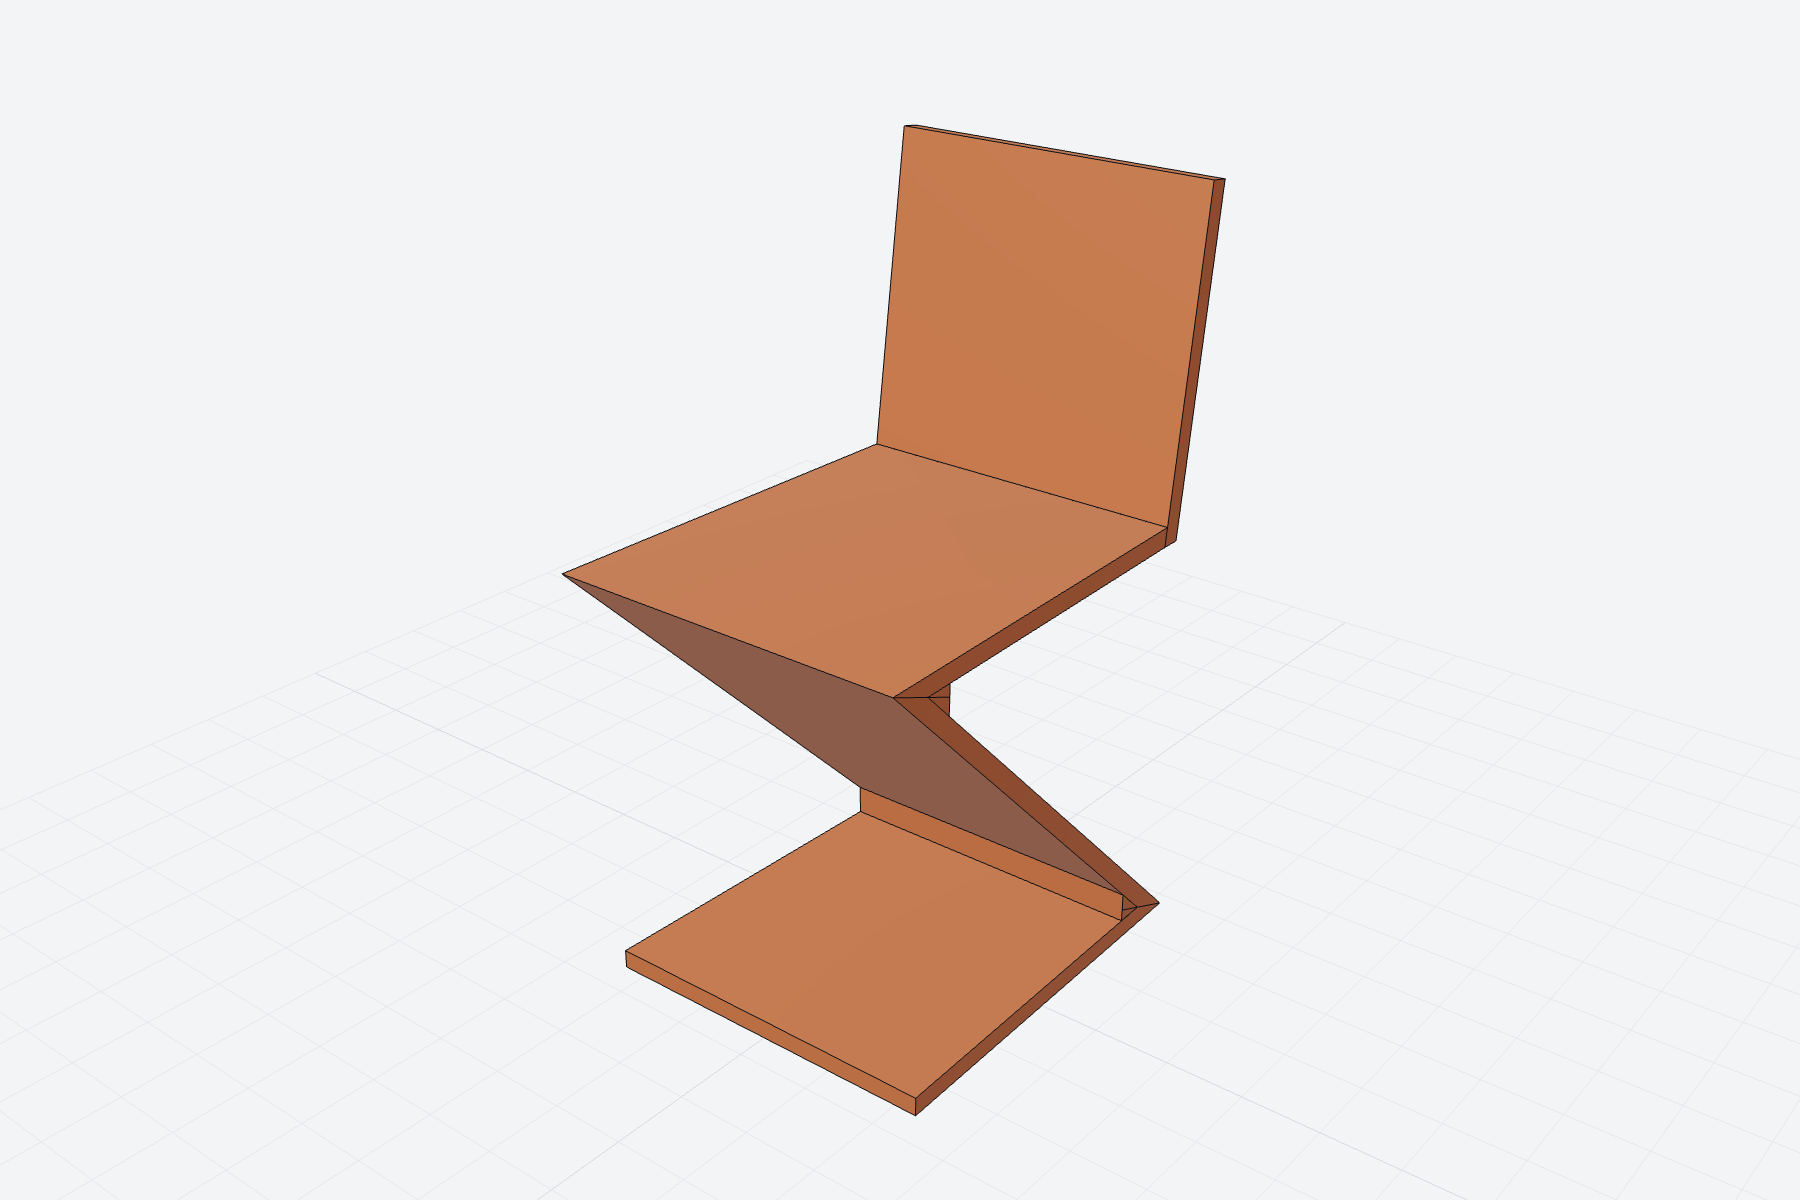
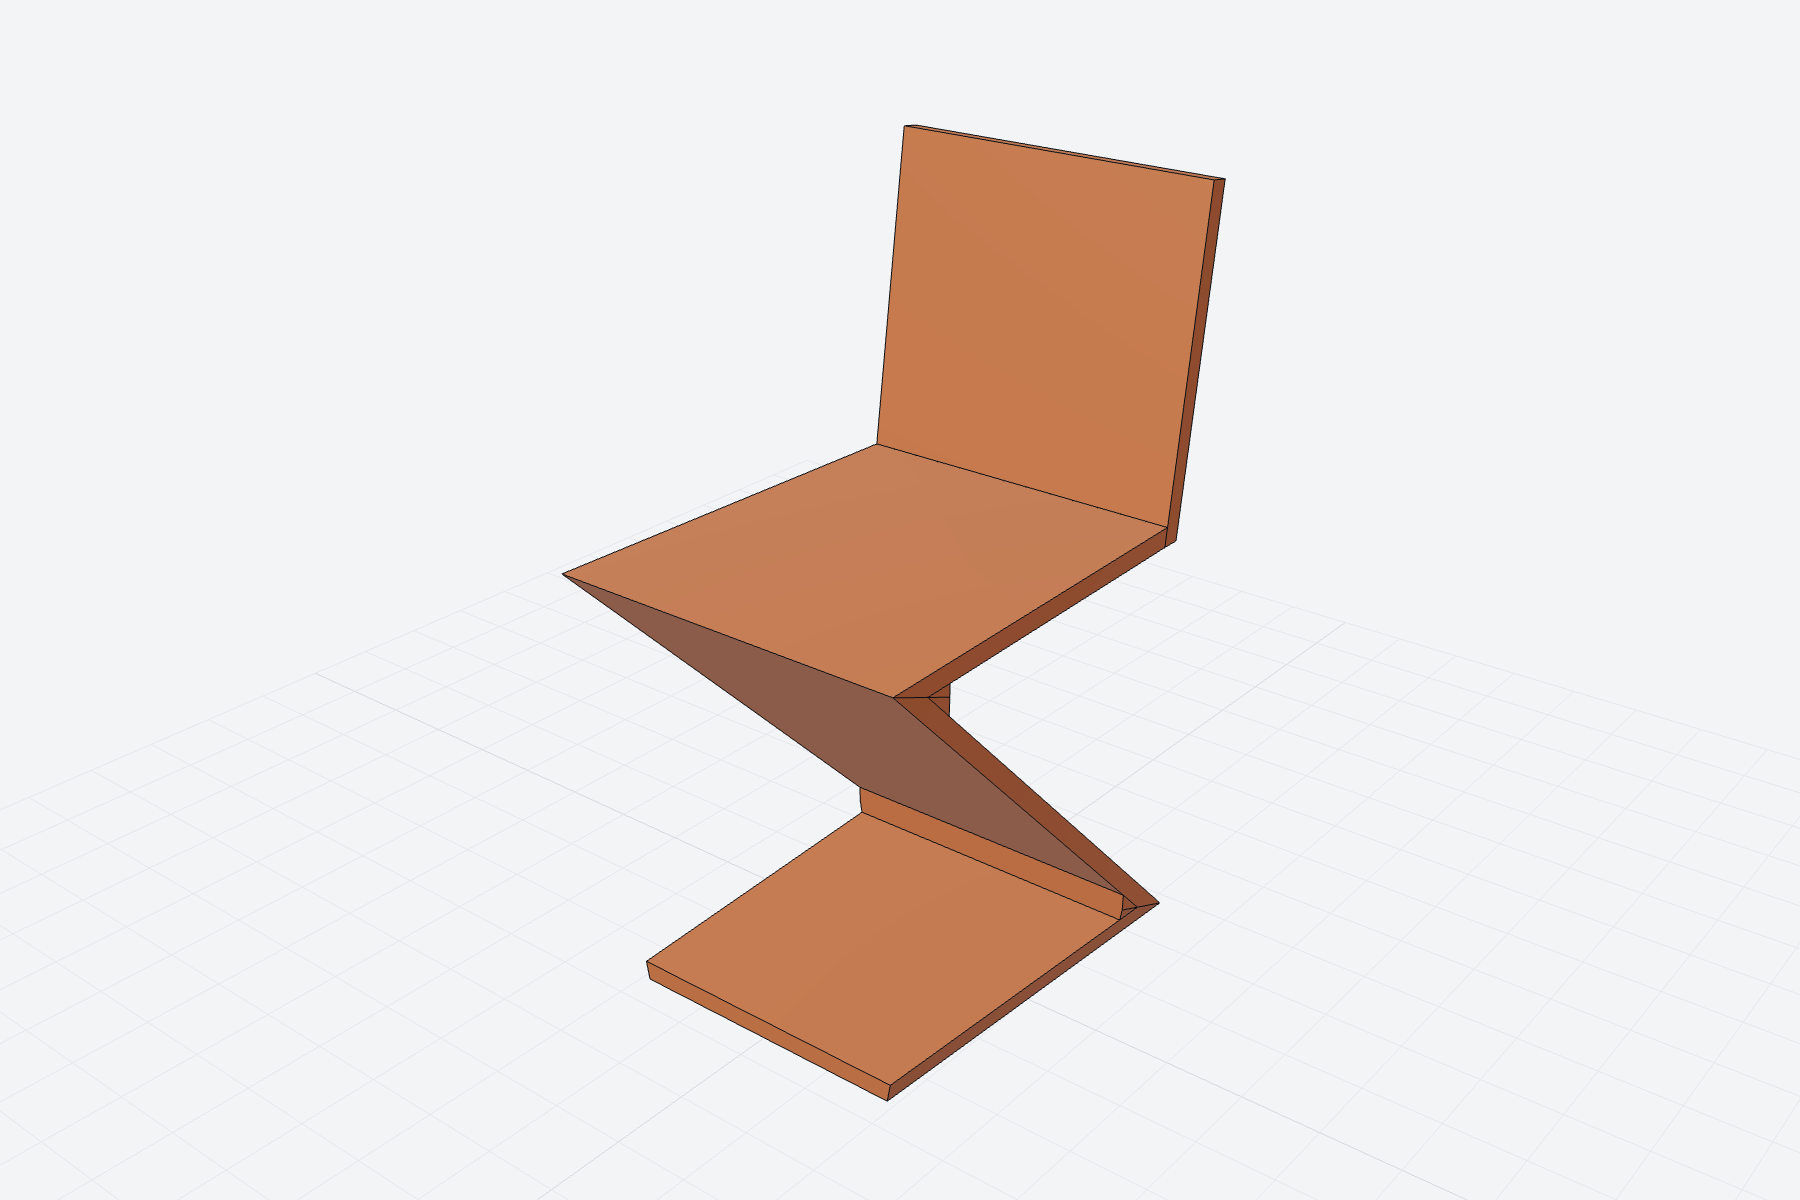
Examples: the zigzag chair's base narrows forward, its sides planed flush with the slant's
Square-edged boards with exact mitres would force the base to widen forward to 357 mm, against the drawing and the photographs. The chair is modelled as finished: the base cut square from 330 at the foot to 300 at the front leaves a 3.1 mm step a side at the bottom mitre's inner edge, planed flush, so its sides are planes through the mitre's shared lines, bevelled 3.49 mm a side (10.4 degrees). check() measures and asserts the bevel and the 300 on the top face's front edge; the hand volume of a board stays the area times the width at the centroid, exact for any width linear in y and z.

Changed region(s): [[0.4978, 0.7708, 0.6222, 0.925], [0.3422, 0.7092, 0.4356, 0.8325], [0.4356, 0.6783, 0.4667, 0.7092]]

diff --git a/examples/zigzag_chair.py b/examples/zigzag_chair.py
@@ -1,6 +1,7 @@
 """Zig-zag chair after Rietveld's 1934 Zig-Zag chair, in the proportions of the current production drawing: four
 cherry boards 19 mm thick, the seat, the slant and the base tapered and mitred at 45 degrees, each mitre with a
-glued cleat in its acute angle; the back dovetailed through the seat, a hand grip carved in its rear face."""
+glued cleat in its acute angle, the base's sides planed flush with the slant's after glue-up; the back dovetailed
+through the seat, a hand grip carved in its rear face."""
 
 import math
 
@@ -13,6 +14,7 @@ from smlibpy import *
 # y = -240, so that the 480 of depth is -240..240.
 T = 19.0  # every board's thickness
 W_NOSE, W_FOOT = 370.0, 330.0  # the width at the nose (the drawing's 37 cm) and at the slant's rear bottom corner
+W_BASE_FRONT = 300.0  # the base's top face at its front edge: the base narrows forward, as the drawing and photos show
 SEAT_TOP, HEIGHT, DEPTH = 430.0, 740.0, 480.0  # the seat's top; the back's rear top corner: its height, behind the nose
 Y_NOSE = -DEPTH / 2
 SLANT, BACK_LEAN = 45.0, 8.0  # the slant to the floor; the back's lean from the vertical
@@ -67,9 +69,14 @@ FOOT_CLEAT = [BASE_INNER, (BASE_INNER[0] - CLEAT, T), (BASE_INNER[0] - CLEAT, T 
 
 
 # The widths. Two boards that share a mitre and have planar sides square to their own faces meet flush only if they
-# narrow at the same rate along their faces, away from the mitre; so one rate for the seat, the slant and the base.
-# Measured along each board from the nose (the seat backward, the slant downward), both narrow; at the foot the
-# slant widens upward, away from the bottom mitre, so the base widens forward, away from it, at the same rate.
+# narrow at the same rate along their faces, away from the mitre; so one rate for the seat and the slant, measured
+# from the nose (the seat backward, the slant downward). At the foot the slant widens upward, away from the bottom
+# mitre, so a square-edged base would have to widen forward, to 357 at its front: against the drawing and the
+# photographs, where it narrows. The chair is modelled as finished instead: a shop cuts the base square to its
+# widths (330 at the foot, 300 at the front) and glues it up; that leaves a step of about 3 mm a side at the bottom
+# mitre's inner edge (SQUARE_STEP), and the base's sides are planed flush with the slant's. They end up planes that
+# contain the bottom mitre's shared lines, so the mitre stays exact, but they are no longer square to the base's
+# faces: the top face is wider than the underside by BEVEL a side.
 def along_slant(y: float, z: float) -> float:
     """Distance from the nose along the slant, downward."""
     return ((y - Y_NOSE) - (z - SEAT_TOP)) / S2
@@ -86,8 +93,22 @@ def slant_half(y: float, z: float) -> float:
     return W_NOSE / 2 - RATE * along_slant(y, z)
 
 
+# The base's side: x = W_FOOT / 2 + BASE_Y (y - FOOT_y) + BASE_Z z, through the foot (its mitre's outer corner),
+# through the mitre's inner corner at the slant's width there, and W_BASE_FRONT wide on the top face's front edge.
+_DY_INNER, _DY_FRONT = BASE_INNER[0] - FOOT[0], BASE_FRONT - FOOT[0]
+_AT_INNER, _AT_FRONT = slant_half(*BASE_INNER) - W_FOOT / 2, W_BASE_FRONT / 2 - W_FOOT / 2
+BASE_Y = (_AT_INNER - _AT_FRONT) / (_DY_INNER - _DY_FRONT)
+BASE_Z = (_AT_INNER - BASE_Y * _DY_INNER) / T
+
+
 def base_half(y: float, z: float = 0.0) -> float:
-    return W_FOOT / 2 + RATE * (FOOT[0] - y)
+    return W_FOOT / 2 + BASE_Y * (y - FOOT[0]) + BASE_Z * z
+
+
+BEVEL = BASE_Z * T  # how much wider a side the base's top face is than its underside
+BEVEL_ANGLE = math.degrees(math.atan(BASE_Z))  # its side face to the vertical, across the chair
+# The step a square-edged base, 330 at the foot to 300 at the front, would leave at the mitre's inner edge.
+SQUARE_STEP = slant_half(*BASE_INNER) - (W_FOOT + (W_BASE_FRONT - W_FOOT) * _DY_INNER / _DY_FRONT) / 2
 
 
 # The back is not tapered: as wide as the seat at its front face, at the seat's mid-thickness. Its edges are the
@@ -113,9 +134,18 @@ def sides(plane: Plane, half) -> Part:
     return outline.on(plane.offset(-BIG / 2)).extrude(BIG)
 
 
-# The seat's and the base's sides are vertical; the slant's contain its normal (0, 1, 1).
+def base_sides() -> Part:
+    """The body between the base's two planed sides, which lean in toward the floor."""
+    body = Box(BIG, BIG, BIG)
+    for side in (1, -1):
+        plane = Plane((side * W_FOOT / 2, FOOT[0], 0), None, (side, -BASE_Y, -BASE_Z))
+        body = body.split(plane, keep="below")
+    return body
+
+
+# The seat's sides are vertical; the slant's contain its normal (0, 1, 1).
 SEAT_SIDES = sides(Plane((0, Y_NOSE, 0), (1, 0, 0), (0, 0, 1)), lambda s: seat_half(Y_NOSE + s))
-BASE_SIDES = sides(Plane((0, Y_NOSE, 0), (1, 0, 0), (0, 0, 1)), lambda s: base_half(Y_NOSE + s))
+BASE_SIDES = base_sides()
 SLANT_SIDES = sides(Plane((0, *NOSE), (1, 0, 0), (0, 1, 1)), lambda s: W_NOSE / 2 - RATE * s)
 
 
@@ -187,8 +217,10 @@ def centroid(polygon: list[tuple[float, float]]) -> tuple[float, float]:
 
 
 def tapered(polygon: list[tuple[float, float]], half) -> float:
-    """A side-view profile between side planes whose half-width is linear over the profile: the volume is the area
-    times the width at the centroid, exact (Cavalieri, slice by slice across the profile)."""
+    """A side-view profile P between two side planes x = +-h(y, z), h linear in y and z (the seat's and the base's
+    vertical sides, the slant's square to its faces, the base's planed sides alike): the volume is
+    integral over P of 2 h(y, z) dA = 2 h(centroid) area(P), since a linear function's mean over P is its value at
+    the centroid. Exact, with the area by the shoelace formula and the centroid from the same cross products."""
     return area(polygon) * 2 * half(*centroid(polygon))
 
 
@@ -297,6 +329,17 @@ def check(parts: list[Part]) -> None:
     size = whole.bbox().size
     assert abs(size.x - W_NOSE) < 1e-6 and abs(size.y - DEPTH) < 1e-6 and abs(size.z - HEIGHT) < 5, size
     assert BACK_STEP < 0.05, BACK_STEP
+    # The base as built: its top face's front edge 300 wide, the underside narrower by the bevel, measured on it.
+    base_box = by_name["base"].bbox()
+    front_edges = {
+        z: max(v.x for v in by_name["base"].vertices() if abs(v.y - BASE_FRONT) < 1e-6 and abs(v.z - z) < 1e-6)
+        for z in (0.0, T)
+    }
+    assert abs(2 * front_edges[T] - W_BASE_FRONT) < 1e-6, front_edges
+    measured_bevel = base_half(FOOT[0], T) - base_half(FOOT[0], 0.0)
+    assert abs(front_edges[T] - front_edges[0.0] - BEVEL) < 1e-6 and abs(measured_bevel - BEVEL) < 1e-9
+    assert 2.5 < BEVEL < 4.5 and 7 < BEVEL_ANGLE < 12, (BEVEL, BEVEL_ANGLE)
+    assert abs(base_box.size.x - 2 * base_half(*BASE_INNER)) < 1e-6  # widest at the mitre's inner corner
     assembly_order(by_name)
     mass = sum(p.mass_properties(density=CHERRY).mass for p in parts)
     print(f"{len(parts)} parts, {size} mm over all, cherry {mass / 1000:.2f} kg")
@@ -306,8 +349,12 @@ def check(parts: list[Part]) -> None:
     )
     print(
         f"widths: {W_NOSE:.1f} at the nose, {2 * seat_half(front(SEAT_TOP)):.1f} at the back, back {W_BACK:.2f},"
-        f" {W_FOOT:.1f} at the foot, base front {2 * base_half(BASE_FRONT):.1f}; taper {RATE:.5f} a side;"
-        f" step at the back's edges {BACK_STEP:.3f}"
+        f" {W_FOOT:.1f} at the foot; taper {RATE:.5f} a side; step at the back's edges {BACK_STEP:.3f}"
+    )
+    print(
+        f"base: {2 * base_half(FOOT[0], 0):.1f} at the foot, {2 * base_half(*BASE_INNER):.2f} at the mitre's inner"
+        f" corner, front edge {2 * base_half(BASE_FRONT, T):.1f} on top, {2 * base_half(BASE_FRONT, 0):.2f} underneath;"
+        f" bevel {BEVEL:.2f} a side ({BEVEL_ANGLE:.1f} deg); square-cut it would step {SQUARE_STEP:.2f} at the mitre"
     )
     print(f"tails {TAIL_REAR:.2f} at the back's rear face, {TAIL_FRONT:.2f} at its front face")
 

diff --git a/docs/examples.md b/docs/examples.md
@@ -205,7 +205,8 @@ def model(module: float = 2.0, teeth: int = 24, width: float = 12.0, bore: float
 
 Zig-zag chair after Rietveld's 1934 Zig-Zag chair, in the proportions of the current production drawing: four
 cherry boards 19 mm thick, the seat, the slant and the base tapered and mitred at 45 degrees, each mitre with a
-glued cleat in its acute angle; the back dovetailed through the seat, a hand grip carved in its rear face.
+glued cleat in its acute angle, the base's sides planed flush with the slant's after glue-up; the back dovetailed
+through the seat, a hand grip carved in its rear face.
 
 ![zigzag_chair](images/zigzag_chair.png)
 
@@ -221,6 +222,7 @@ from smlibpy import *
 # y = -240, so that the 480 of depth is -240..240.
 T = 19.0  # every board's thickness
 W_NOSE, W_FOOT = 370.0, 330.0  # the width at the nose (the drawing's 37 cm) and at the slant's rear bottom corner
+W_BASE_FRONT = 300.0  # the base's top face at its front edge: the base narrows forward, as the drawing and photos show
 SEAT_TOP, HEIGHT, DEPTH = 430.0, 740.0, 480.0  # the seat's top; the back's rear top corner: its height, behind the nose
 Y_NOSE = -DEPTH / 2
 SLANT, BACK_LEAN = 45.0, 8.0  # the slant to the floor; the back's lean from the vertical
@@ -275,9 +277,14 @@ FOOT_CLEAT = [BASE_INNER, (BASE_INNER[0] - CLEAT, T), (BASE_INNER[0] - CLEAT, T 
 
 
 # The widths. Two boards that share a mitre and have planar sides square to their own faces meet flush only if they
-# narrow at the same rate along their faces, away from the mitre; so one rate for the seat, the slant and the base.
-# Measured along each board from the nose (the seat backward, the slant downward), both narrow; at the foot the
-# slant widens upward, away from the bottom mitre, so the base widens forward, away from it, at the same rate.
+# narrow at the same rate along their faces, away from the mitre; so one rate for the seat and the slant, measured
+# from the nose (the seat backward, the slant downward). At the foot the slant widens upward, away from the bottom
+# mitre, so a square-edged base would have to widen forward, to 357 at its front: against the drawing and the
+# photographs, where it narrows. The chair is modelled as finished instead: a shop cuts the base square to its
+# widths (330 at the foot, 300 at the front) and glues it up; that leaves a step of about 3 mm a side at the bottom
+# mitre's inner edge (SQUARE_STEP), and the base's sides are planed flush with the slant's. They end up planes that
+# contain the bottom mitre's shared lines, so the mitre stays exact, but they are no longer square to the base's
+# faces: the top face is wider than the underside by BEVEL a side.
 def along_slant(y: float, z: float) -> float:
     """Distance from the nose along the slant, downward."""
     return ((y - Y_NOSE) - (z - SEAT_TOP)) / S2
@@ -294,8 +301,22 @@ def slant_half(y: float, z: float) -> float:
     return W_NOSE / 2 - RATE * along_slant(y, z)
 
 
+# The base's side: x = W_FOOT / 2 + BASE_Y (y - FOOT_y) + BASE_Z z, through the foot (its mitre's outer corner),
+# through the mitre's inner corner at the slant's width there, and W_BASE_FRONT wide on the top face's front edge.
+_DY_INNER, _DY_FRONT = BASE_INNER[0] - FOOT[0], BASE_FRONT - FOOT[0]
+_AT_INNER, _AT_FRONT = slant_half(*BASE_INNER) - W_FOOT / 2, W_BASE_FRONT / 2 - W_FOOT / 2
+BASE_Y = (_AT_INNER - _AT_FRONT) / (_DY_INNER - _DY_FRONT)
+BASE_Z = (_AT_INNER - BASE_Y * _DY_INNER) / T
+
+
 def base_half(y: float, z: float = 0.0) -> float:
-    return W_FOOT / 2 + RATE * (FOOT[0] - y)
+    return W_FOOT / 2 + BASE_Y * (y - FOOT[0]) + BASE_Z * z
+
+
+BEVEL = BASE_Z * T  # how much wider a side the base's top face is than its underside
+BEVEL_ANGLE = math.degrees(math.atan(BASE_Z))  # its side face to the vertical, across the chair
+# The step a square-edged base, 330 at the foot to 300 at the front, would leave at the mitre's inner edge.
+SQUARE_STEP = slant_half(*BASE_INNER) - (W_FOOT + (W_BASE_FRONT - W_FOOT) * _DY_INNER / _DY_FRONT) / 2
 
 
 # The back is not tapered: as wide as the seat at its front face, at the seat's mid-thickness. Its edges are the
@@ -321,9 +342,18 @@ def sides(plane: Plane, half) -> Part:
     return outline.on(plane.offset(-BIG / 2)).extrude(BIG)
 
 
-# The seat's and the base's sides are vertical; the slant's contain its normal (0, 1, 1).
+def base_sides() -> Part:
+    """The body between the base's two planed sides, which lean in toward the floor."""
+    body = Box(BIG, BIG, BIG)
+    for side in (1, -1):
+        plane = Plane((side * W_FOOT / 2, FOOT[0], 0), None, (side, -BASE_Y, -BASE_Z))
+        body = body.split(plane, keep="below")
+    return body
+
+
+# The seat's sides are vertical; the slant's contain its normal (0, 1, 1).
 SEAT_SIDES = sides(Plane((0, Y_NOSE, 0), (1, 0, 0), (0, 0, 1)), lambda s: seat_half(Y_NOSE + s))
-BASE_SIDES = sides(Plane((0, Y_NOSE, 0), (1, 0, 0), (0, 0, 1)), lambda s: base_half(Y_NOSE + s))
+BASE_SIDES = base_sides()
 SLANT_SIDES = sides(Plane((0, *NOSE), (1, 0, 0), (0, 1, 1)), lambda s: W_NOSE / 2 - RATE * s)
 
 
@@ -395,8 +425,10 @@ def centroid(polygon: list[tuple[float, float]]) -> tuple[float, float]:
 
 
 def tapered(polygon: list[tuple[float, float]], half) -> float:
-    """A side-view profile between side planes whose half-width is linear over the profile: the volume is the area
-    times the width at the centroid, exact (Cavalieri, slice by slice across the profile)."""
+    """A side-view profile P between two side planes x = +-h(y, z), h linear in y and z (the seat's and the base's
+    vertical sides, the slant's square to its faces, the base's planed sides alike): the volume is
+    integral over P of 2 h(y, z) dA = 2 h(centroid) area(P), since a linear function's mean over P is its value at
+    the centroid. Exact, with the area by the shoelace formula and the centroid from the same cross products."""
     return area(polygon) * 2 * half(*centroid(polygon))
 
 
@@ -505,6 +537,17 @@ def check(parts: list[Part]) -> None:
     size = whole.bbox().size
     assert abs(size.x - W_NOSE) < 1e-6 and abs(size.y - DEPTH) < 1e-6 and abs(size.z - HEIGHT) < 5, size
     assert BACK_STEP < 0.05, BACK_STEP
+    # The base as built: its top face's front edge 300 wide, the underside narrower by the bevel, measured on it.
+    base_box = by_name["base"].bbox()
+    front_edges = {
+        z: max(v.x for v in by_name["base"].vertices() if abs(v.y - BASE_FRONT) < 1e-6 and abs(v.z - z) < 1e-6)
+        for z in (0.0, T)
+    }
+    assert abs(2 * front_edges[T] - W_BASE_FRONT) < 1e-6, front_edges
+    measured_bevel = base_half(FOOT[0], T) - base_half(FOOT[0], 0.0)
+    assert abs(front_edges[T] - front_edges[0.0] - BEVEL) < 1e-6 and abs(measured_bevel - BEVEL) < 1e-9
+    assert 2.5 < BEVEL < 4.5 and 7 < BEVEL_ANGLE < 12, (BEVEL, BEVEL_ANGLE)
+    assert abs(base_box.size.x - 2 * base_half(*BASE_INNER)) < 1e-6  # widest at the mitre's inner corner
     assembly_order(by_name)
     mass = sum(p.mass_properties(density=CHERRY).mass for p in parts)
     print(f"{len(parts)} parts, {size} mm over all, cherry {mass / 1000:.2f} kg")
@@ -514,8 +557,12 @@ def check(parts: list[Part]) -> None:
     )
     print(
         f"widths: {W_NOSE:.1f} at the nose, {2 * seat_half(front(SEAT_TOP)):.1f} at the back, back {W_BACK:.2f},"
-        f" {W_FOOT:.1f} at the foot, base front {2 * base_half(BASE_FRONT):.1f}; taper {RATE:.5f} a side;"
-        f" step at the back's edges {BACK_STEP:.3f}"
+        f" {W_FOOT:.1f} at the foot; taper {RATE:.5f} a side; step at the back's edges {BACK_STEP:.3f}"
+    )
+    print(
+        f"base: {2 * base_half(FOOT[0], 0):.1f} at the foot, {2 * base_half(*BASE_INNER):.2f} at the mitre's inner"
+        f" corner, front edge {2 * base_half(BASE_FRONT, T):.1f} on top, {2 * base_half(BASE_FRONT, 0):.2f} underneath;"
+        f" bevel {BEVEL:.2f} a side ({BEVEL_ANGLE:.1f} deg); square-cut it would step {SQUARE_STEP:.2f} at the mitre"
     )
     print(f"tails {TAIL_REAR:.2f} at the back's rear face, {TAIL_FRONT:.2f} at its front face")
 ```
